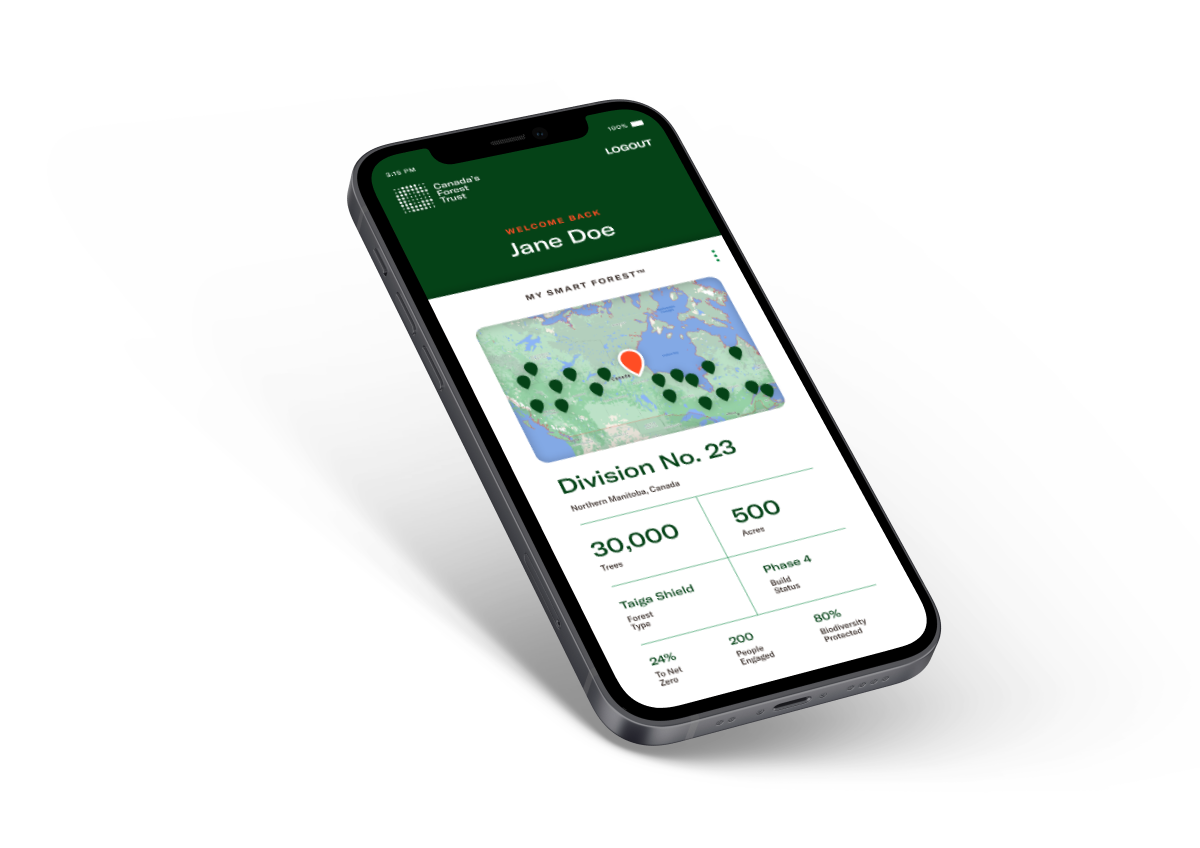
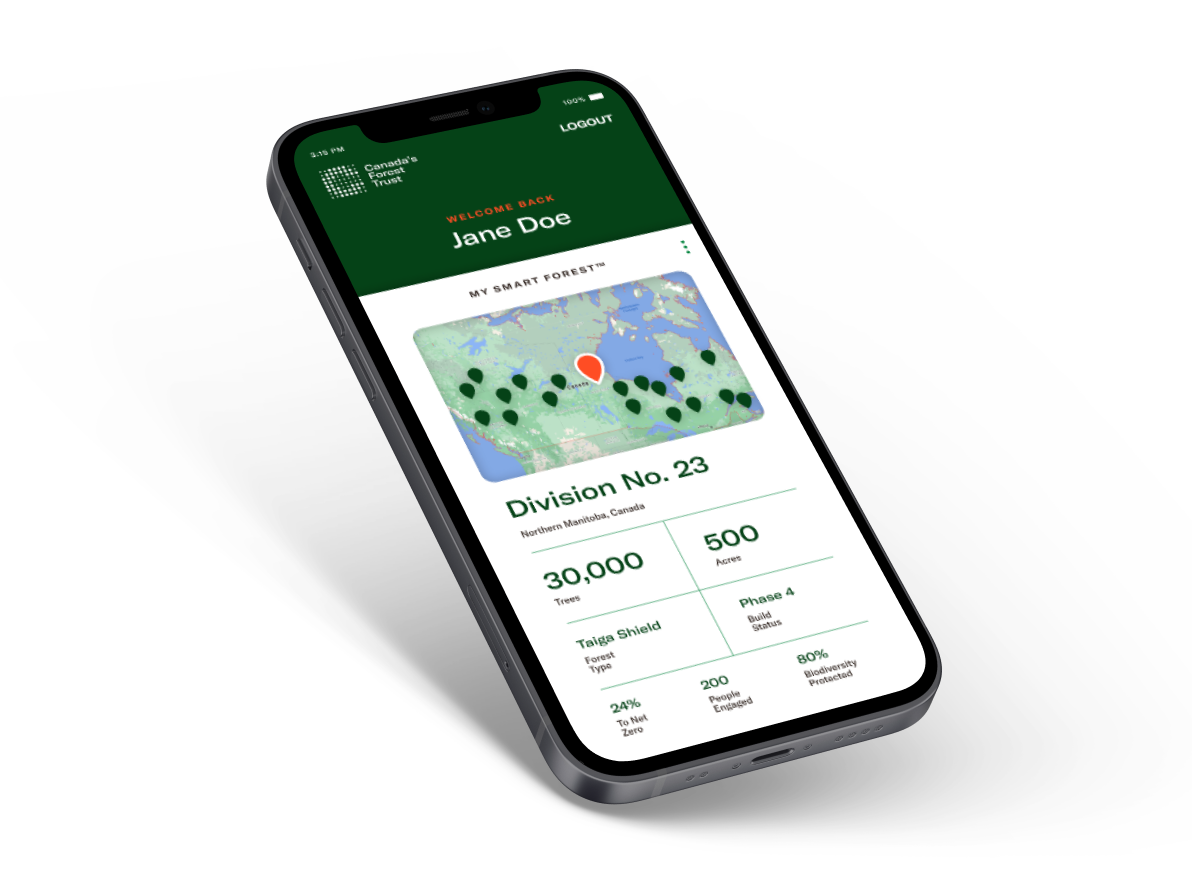
proto image enlarged/repositioned

Changed region(s): [[0.2173, 0.0613, 0.807, 0.9505], [0.745, 0.6439, 0.776, 0.7052]]

diff --git a/styles/globals.css b/styles/globals.css
@@ -956,7 +956,7 @@ select {
 .protorow {
   background-image: url('/landing-proto.png');
   background-size: contain;
-  background-position: 65% 0;
+  background-position: 75% 0;
   background-repeat: no-repeat;
 }
 
